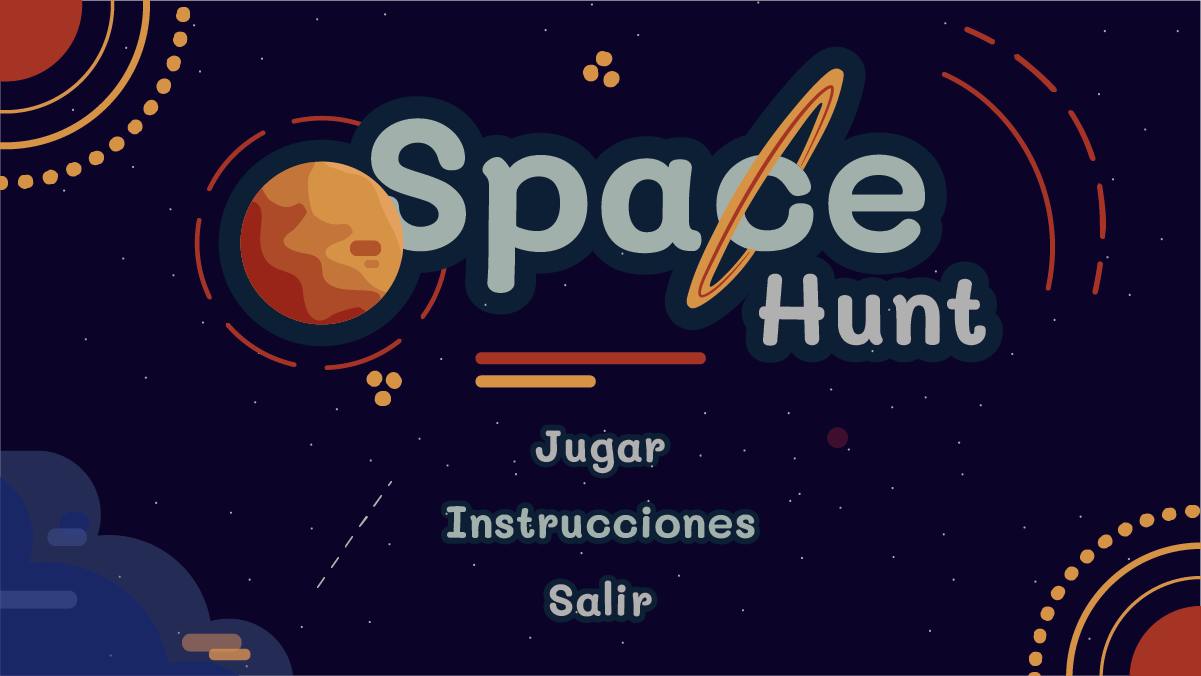
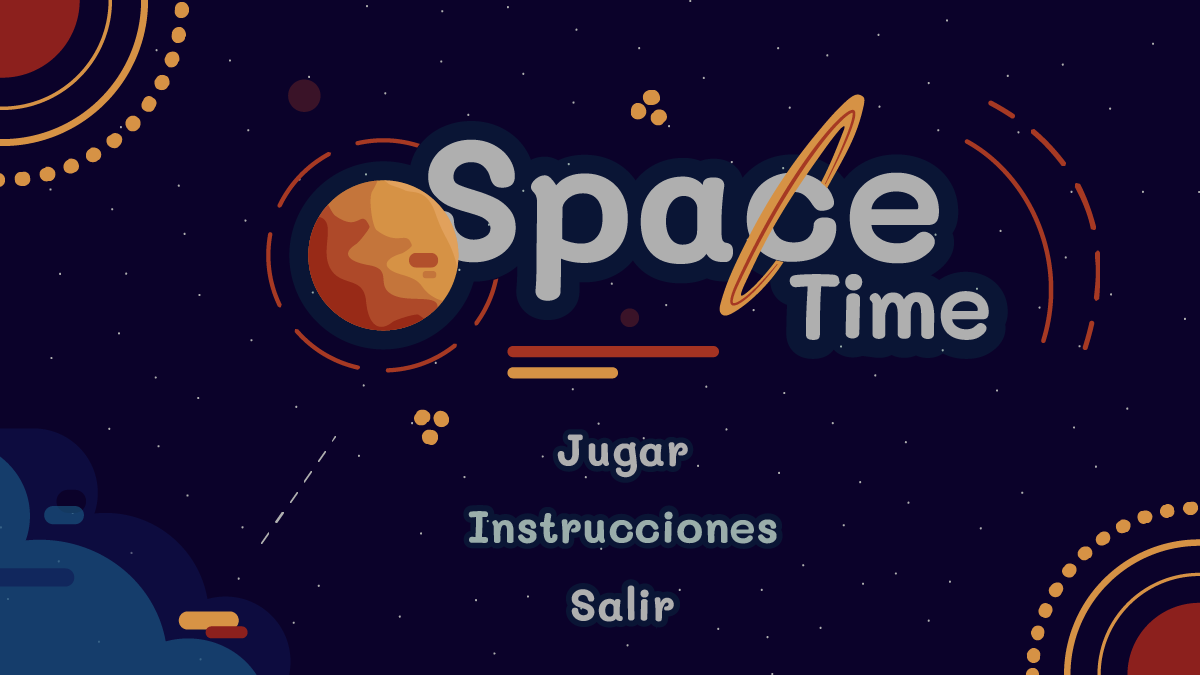
Modo Cooperativo

diff --git a/taller2.zip_expanded/Taller2/src/bravo_correa_perez_quevedo_vivas/Logica.java b/taller2.zip_expanded/Taller2/src/bravo_correa_perez_quevedo_vivas/Logica.java
@@ -27,6 +27,7 @@ public class Logica {
 	 * Pantalla 5 - Inst4
 	 * Pantalla 6 - Ganaste
 	 * Pantalla 7 - Perdiste
+	 * Pantalla 8 - Seleccion modo
 	 */
 	
 	public Logica(PApplet app) {
@@ -51,8 +52,7 @@ public class Logica {
 			break;
 		
 		case 1:
-			if(m == null) {
-				m = new MundoCooperativo(app);
+			if(m.getState().name().equals("NEW")) {
 				m.start();
 			}
 			m.pintar();
@@ -103,6 +103,10 @@ public class Logica {
 			app.text(agujeros, 818.3f, 450.92f);
 			app.text(cometas, 452.18f, 450.92f);
 			break;
+			
+		case 8:
+			interaccionSeleccion();
+			
 		}
 		interInstru();
 		app.stroke(255,100);
@@ -123,6 +127,20 @@ public class Logica {
 			app.image(menus[3], posX, posY);
 		}else {
 			app.image(menus[0], posX, posY);
+		}
+	}
+	
+	public void interaccionSeleccion() {
+		int x = app.mouseX;
+		int y = app.mouseY;
+		float posX = app.width/2;
+		float posY = app.height/2;
+		if(x > 130.64f && y > 293.47f && x < 550.62f && y < 500.89f){
+			app.image(menus[17], posX, posY);
+		} else if(x > 649.88f && y > 293.47f && x < 1069.86f && y < 500.89f) {
+			app.image(menus[18], posX, posY);
+		} else {
+			app.image(menus[16], posX, posY);
 		}
 	}
 	
@@ -200,7 +218,7 @@ public class Logica {
 		switch(pantalla) {
 		case 0:
 			if(x > posX - 72.82f && x < posX + 72.67f && y > posY + 86.75f && y < posY + 145.16f){
-				pantalla = 1;
+				pantalla = 8;
 			} else if(x > posX - 158.29f && x < posX + 161.94f && y > posY + 161.94f && y < posY + 207.66f){
 				pantalla = 2;
 			} else if(x > posX - 56.32f && x < posX + 56.55f && y > posY + 236.77f && y < posY + 283.98f) {
@@ -231,7 +249,7 @@ public class Logica {
 			
 		case 5:			
 			if(x > posX - 69.16f && x < posX + 70.97f && y > posY + 218.9f && y < posY + 272.66f) {
-				pantalla = 1;
+				pantalla = 8;
 			}
 			break;
 			
@@ -246,6 +264,15 @@ public class Logica {
 				pantalla = 0;
 			}
 			break;
+			
+		case 8:
+			if(x > 130.64f && y > 293.47f && x < 550.62f && y < 500.89f){
+				m = new MundoCooperativo(app);
+				pantalla = 1;
+			} else if(x > 649.88f && y > 293.47f && x < 1069.86f && y < 500.89f) {
+				m = new MundoCooperativo(app);
+				pantalla = 1;
+			}
 		}
 	}
 	

diff --git a/taller2.zip_expanded/Taller2/src/bravo_correa_perez_quevedo_vivas/Ovni.java b/taller2.zip_expanded/Taller2/src/bravo_correa_perez_quevedo_vivas/Ovni.java
@@ -18,11 +18,13 @@ public class Ovni extends Personaje{
 	private boolean entrar;
 	private boolean huir;
 	private int atacar;
+	private int modo;
 	
-	public Ovni(PApplet app, Mundo m, int nivel) {
+	public Ovni(PApplet app, Mundo m, int nivel, int modo) {
 		super(app);
 		this.m = m;
 		this.app = app;
+		this.modo = modo;
 		j = m.getJ();
 		vel.set(j[0].getPos());
 		mali = app.loadFont("maliB_18.vlw");
@@ -127,11 +129,19 @@ public class Ovni extends Personaje{
 					} else  {
 						for(int i = 0; i < 2; i++) {
 							if(o instanceof Agujero) {
-							
-								if(j[i].getEstrellas() - 15 >= 0 ) {
-									j[i].setEstrella(j[i].getEstrellas()-15);
+								if(modo == 0) {
+									MundoCooperativo mc = ((MundoCooperativo)m);
+									if(mc.getEstrellas() - 15 >= 0 ) {
+										mc.setEstrellas(mc.getEstrellas()-15);
+									} else {
+										mc.setEstrellas(0);
+									}
 								} else {
-									j[i].setEstrella(0);
+									if(j[i].getEstrellas() - 15 >= 0 ) {
+										j[i].setEstrella(j[i].getEstrellas()-15);
+									} else {
+										j[i].setEstrella(0);
+									}
 								}
 							} else if(o instanceof Cometa) {
 								j[i].setCometaMenos(true);
@@ -170,14 +180,27 @@ public class Ovni extends Personaje{
 	public void perseguirJugador(Jugador j) {
 		perseguir(j.getPos());
 		if(app.dist(j.getPos().x, j.getPos().y, pos.x, pos.y) < 45 && atacar > 60) {
-			if(j.getEstrellas() > 0) {
-				if(j.getEstrellas()-5 >= 0) {
-					j.setEstrella(j.getEstrellas()-5);					
+			if(modo == 0) {
+				MundoCooperativo mc = ((MundoCooperativo)m);
+				if(mc.getEstrellas() > 0) {
+					if(mc.getEstrellas()-5 >= 0) {
+						mc.setEstrellas(mc.getEstrellas()-5);					
+					} else {
+						mc.setEstrellas(0);
+					}
 				} else {
-					j.setEstrella(0);
+					m.setMatar(true);
 				}
 			} else {
-				m.setMatar(true);
+				if(j.getEstrellas() > 0) {
+					if(j.getEstrellas()-5 >= 0) {
+						j.setEstrella(j.getEstrellas()-5);					
+					} else {
+						j.setEstrella(0);
+					}
+				} else {
+					m.setMatar(true);
+				}
 			}
 			estrellas += 2;
 			atacar = 0;

diff --git a/taller2.zip_expanded/Taller2/src/bravo_correa_perez_quevedo_vivas/MundoCooperativo.java b/taller2.zip_expanded/Taller2/src/bravo_correa_perez_quevedo_vivas/MundoCooperativo.java
@@ -10,8 +10,14 @@ import processing.sound.SoundFile;
 
 public class MundoCooperativo extends Mundo {
 
+	private int estrellas;
+	
 	public MundoCooperativo(PApplet app) {
 		super(app);
+		estrellas = 0;
+		Ovni o = new Ovni(app, this, 0, 0);
+		o.start();
+		ovnis.add(o);
 	}
 	
 	public void pintar() {
@@ -74,8 +80,54 @@ public class MundoCooperativo extends Mundo {
 		}
 		
 		if(app.key == '1') {
-			j[0].usarCometa();
-			j[1].usarCometa();
+			estrellas = j[0].usarCometa(estrellas);
+			estrellas = j[1].usarCometa(estrellas + 5);
+		}
+	}
+	
+	public void crearOvnis() {
+		synchronized(ovnis) {
+			//Crear Ovnis
+			if(contadorOvni % 180 == 0) {
+				if(contadorOvni < 1800) {
+					Ovni o = new Ovni(app, this, 0, 0);
+					o.start();
+					ovnis.add(o);
+				}else if(contadorOvni >= 1800 && contadorOvni < 3600) {
+					Ovni o = new Ovni(app, this, 1, 0);
+					o.start();
+					ovnis.add(o);
+				} else {
+					Ovni o = new Ovni(app, this, 2, 0);
+					o.start();
+					ovnis.add(o);
+				}
+			}
+		}
+	}
+	
+	public boolean terminarJuego() {
+		if(contadorTiempo-app.millis() <= 0) {
+			mus.stop();
+			Ovni o = null;
+			Iterator<Ovni> it = ovnis.iterator();
+			if(it.hasNext()) {
+				o = it.next();
+			}
+			while(it.hasNext()) {
+				Ovni obj = it.next();
+				
+				if(o.getEstrellas()-obj.getEstrellas() <= 0) {
+					o = obj;
+				}
+			}
+			if(o.getEstrellas() - estrellas <= 0) {
+				ganar = true;
+			}
+			
+			return true;
+		} else {
+			return false;
 		}
 	}
 	
@@ -83,6 +135,14 @@ public class MundoCooperativo extends Mundo {
 	
 	public LinkedList<Recogible> getObjetos() {
 		return objetos;
+	}
+	
+	public int getEstrellas() {
+		return estrellas;
+	}
+	
+	public void setEstrellas(int e) {
+		estrellas = e;
 	}
 	
 	public LinkedList<Ovni> getOvnis() {

diff --git a/taller2.zip_expanded/Taller2/src/bravo_correa_perez_quevedo_vivas/Mundo.java b/taller2.zip_expanded/Taller2/src/bravo_correa_perez_quevedo_vivas/Mundo.java
@@ -35,9 +35,6 @@ public abstract class Mundo extends Thread {
 		ganar = false;
 		matar = false;
 		ovnis = new LinkedList<Ovni>();
-		Ovni o = new Ovni(app, this, 0);
-		o.start();
-		ovnis.add(o);
 		objetos = new LinkedList<Recogible>();
 		fondo = app.loadImage("fondo1.png");
 		interfaz = app.loadImage("Interfaz1.png");
@@ -51,25 +48,8 @@ public abstract class Mundo extends Thread {
 
 	public void run() {
 		while(vivo) {
-			synchronized(ovnis) {
-				//Crear Ovnis
-				if(contadorOvni % 180 == 0) {
-					if(contadorOvni < 1800) {
-						Ovni o = new Ovni(app, this, 0);
-						o.start();
-						ovnis.add(o);
-					}else if(contadorOvni >= 1800 && contadorOvni < 3600) {
-						Ovni o = new Ovni(app, this, 1);
-						o.start();
-						ovnis.add(o);
-					} else {
-						Ovni o = new Ovni(app, this, 2);
-						o.start();
-						ovnis.add(o);
-					}
-				}
-			}
-
+			
+			crearOvnis();
 			synchronized(objetos) {
 				if(contadorObj % 60 == 0) {
 					int ran = (int)app.random(25);
@@ -112,31 +92,9 @@ public abstract class Mundo extends Thread {
 		}
 	}
 	
-	public boolean terminarJuego() {
-		if(contadorTiempo-app.millis() <= 0) {
-			mus.stop();
-			Ovni o = null;
-			Iterator<Ovni> it = ovnis.iterator();
-			if(it.hasNext()) {
-				o = it.next();
-			}
-			while(it.hasNext()) {
-				Ovni obj = it.next();
-				
-				if(o.getEstrellas()-obj.getEstrellas() <= 0) {
-					o = obj;
-				}
-			}
-			if(o.getEstrellas() - j[0].getEstrellas() <= 0) {
-				ganar = true;
-			}
-			
-			return true;
-		} else {
-			return false;
-		}
-	}
+	public abstract boolean terminarJuego();
 	
+	public abstract void crearOvnis();
 	public void pararMus() {
 		if(mus.isPlaying()) {
 			mus.stop();

diff --git a/taller2.zip_expanded/Taller2/src/bravo_correa_perez_quevedo_vivas/Jugador.java b/taller2.zip_expanded/Taller2/src/bravo_correa_perez_quevedo_vivas/Jugador.java
@@ -160,12 +160,14 @@ public class Jugador extends Personaje{
 	
 
 	
-	public void usarCometa() {
-		if(estrellas >= 5 && cometa > 0) {
+	public int usarCometa(int e) {
+		if(e >= 5 && cometa > 0) {
 			cometaMas = true;
-			estrellas -= 5;
 			contEfecto = app.millis() + 5000;
 			cometa--;
+			return e -= 5;
+		} else {
+			return 0;
 		}
 	}
 	
